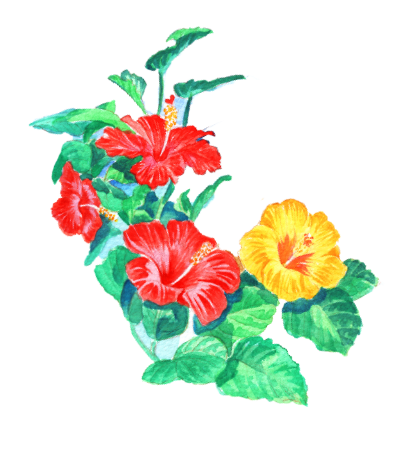
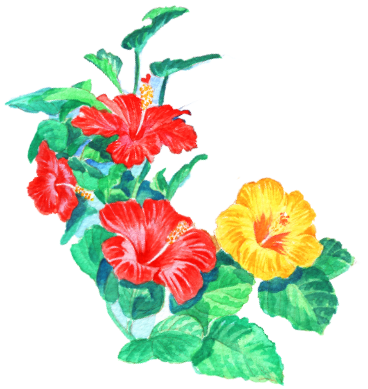
[update] SPの会社概要セクションの作成

diff --git a/assets/stylesheet.css b/assets/stylesheet.css
@@ -509,12 +509,14 @@ header {
   font-family: 'Noto Serif JP', sans-serif;
   font-weight: bold;
   margin-bottom: 49px;
+  margin-left: 6.8%;
 }
 
 .company_comment {
   font-size: 2rem;
   font-family: 'Noto Serif JP', sans-serif;
-  margin-right: 39.4%;
+  margin-right: 12%;
+  margin-left: 6.8%;
 }
 
 .company_image_area {
@@ -522,10 +524,12 @@ header {
   flex-wrap: wrap;
   justify-content: space-between;
   align-items: center;
+  margin-top: 74px;
 }
 
 .hibiscus {
   object-fit: contain;
+  margin-top: -5%;
 }
 
 .sns_container {
@@ -747,6 +751,10 @@ footer {
   }
 
   .sp_product_beer {
+    display: none;
+  }
+
+  .sp_hibiscus {
     display: none;
   }
 
@@ -1117,8 +1125,37 @@ footer {
     display: inline-block;
   }
 
-  .about_company {
+  .company_container {
+    max-width: 400px;
+    padding: 100px 0 0 0;
+  }
+
+  .company_title {
+    font-size: 1.5rem;
+  }
+
+  .company_comment {
+    font-size: 1.125rem;
+  }
+
+  .company_image_area {
+    display: block;
+  }
+
+  .hibiscus {
     display: none;
+  }
+
+  .sp_hibiscus {
+    width: 50%;
+    height: 186px;
+    margin-top: -20%;
+    margin-left: -5%;
+  }
+
+  .about_company {
+    width: 69%;
+    margin: 0 0 0 auto;
   }
 
   .sns_container {

diff --git a/index.html b/index.html
@@ -186,8 +186,15 @@
           <div class="company_comment">バイロンベイでニューサウスウェールズ州のノーザンリバーで親しみやすいビールを誇りを持って醸造しています。</div>
         </div>
         <div class="company_image_area">
-          <img class="hibiscus" src="./assets/img/hibiscus.png" width="420" height="472" alt="ハイビスカス">
-          <img class="about_company" src="./assets/img/about_company.jpg" width="650" height="326" alt="STONEWOODと海">
+          <div class="hibiscus">
+            <img src="./assets/img/hibiscus.png" width="368" height="389" alt="ハイビスカス">
+          </div>
+          <div class="about_company">
+            <img src="./assets/img/about_company.jpg" width="650" height="326" alt="STONEWOODと海">
+          </div>
+          <div class="sp_hibiscus">
+            <img src="./assets/img/hibiscus.png" width="368" height="389" alt="ハイビスカス">
+          </div>
         </div>
       </div>
     </div>
